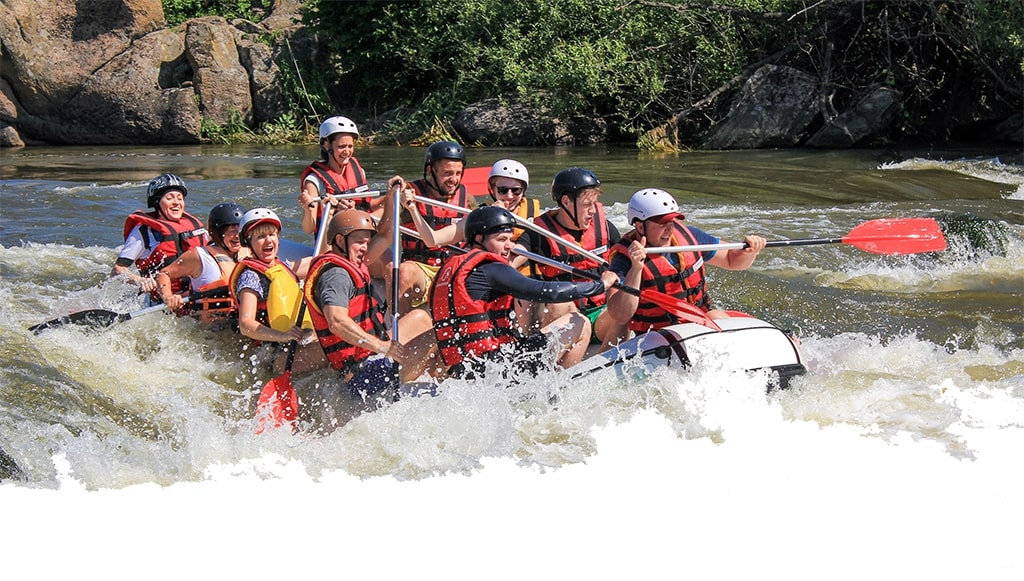
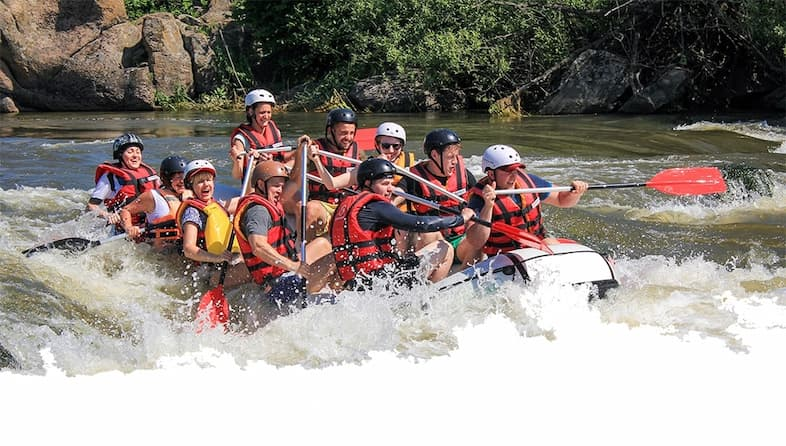
adjustments made in image sizes

diff --git a/wwr/about.html b/wwr/about.html
@@ -3,9 +3,9 @@
 <head>
   <meta charset="UTF-8">
   <meta name="description" content="About Us - White Water Rafting Adventures">
-  <meta name="author" content="Your Name">
+  <meta name="author" content="Ashiraf Nabugo">
   <meta name="viewport" content="width=device-width, initial-scale=1.0">
-  <title>About Us | White Water Rafting</title>
+  <title>About Us - White Water Rafting</title>
 
   <!-- Google Fonts -->
   <link href="https://fonts.googleapis.com/css2?family=Roboto:wght@400;700&display=swap" rel="stylesheet">
@@ -36,7 +36,7 @@
 
     <section>
       <h2>History</h2>
-      <p>Founded in 1995, our company started with one raft and a dream. We’ve grown into one of the top rafting destinations, guided by passion for rivers, safety, and outdoor adventure.</p>
+      <p>Founded in 1995, our company started with one raft and a dream. We have grown into one of the top rafting destinations, guided by passion for rivers, safety, and outdoor adventure.</p>
     </section>
 
     <section>
@@ -50,7 +50,9 @@
   </main>
 
   <footer>
-    <p>&copy; 2025 White Water Rafting | Your Name</p>
+    <p>&copy; 2025 White Water Rafting | Ashiraf Nabugo</p>
     <nav class="socialmedia">
       <a href="https://facebook.com"><img src="images/facebook-icon.png" alt="Facebook" width="30"></a>
       <a href="https://twitter.com"><img src="images/twitter-icon.png" alt="Twitt
+        
+ 
